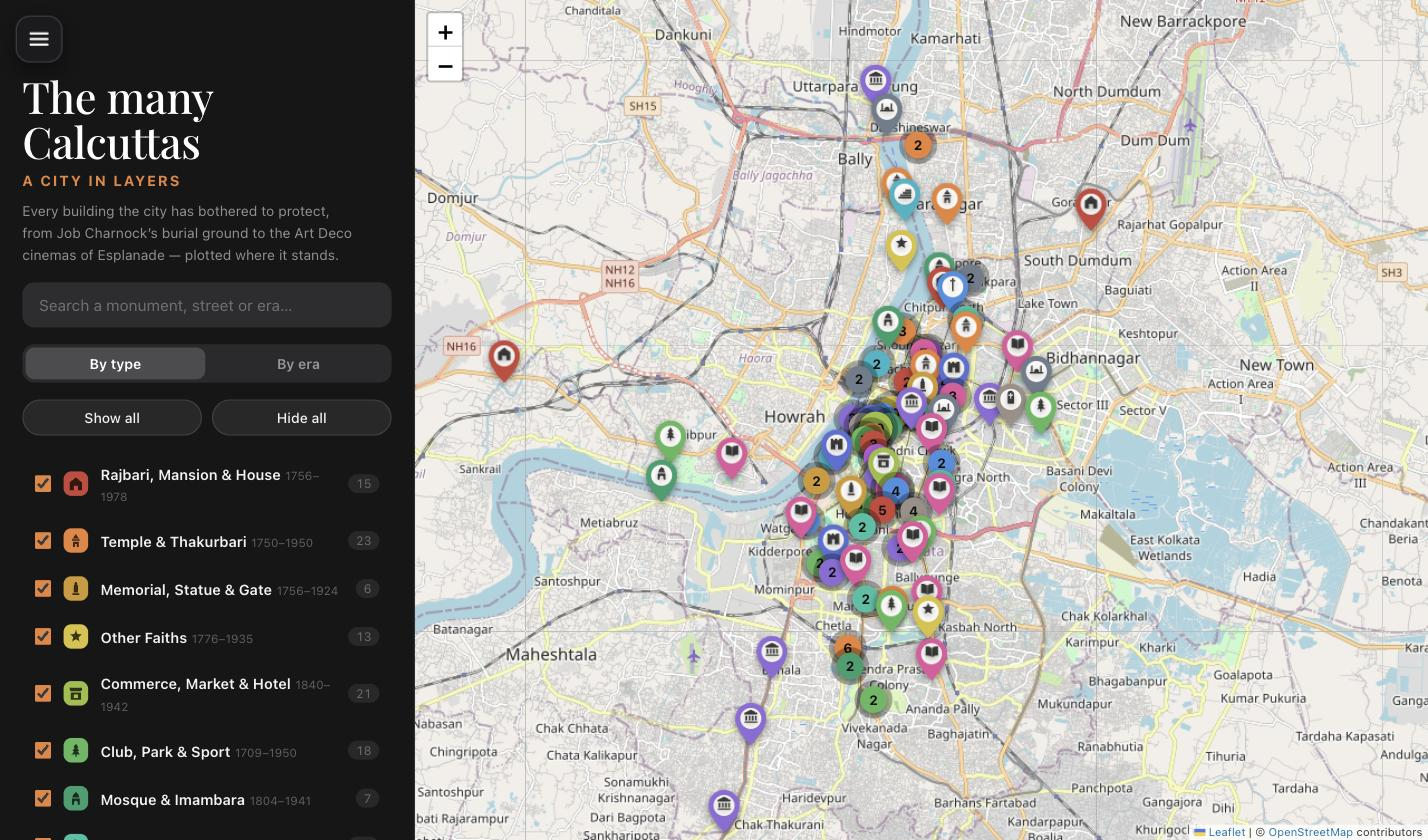
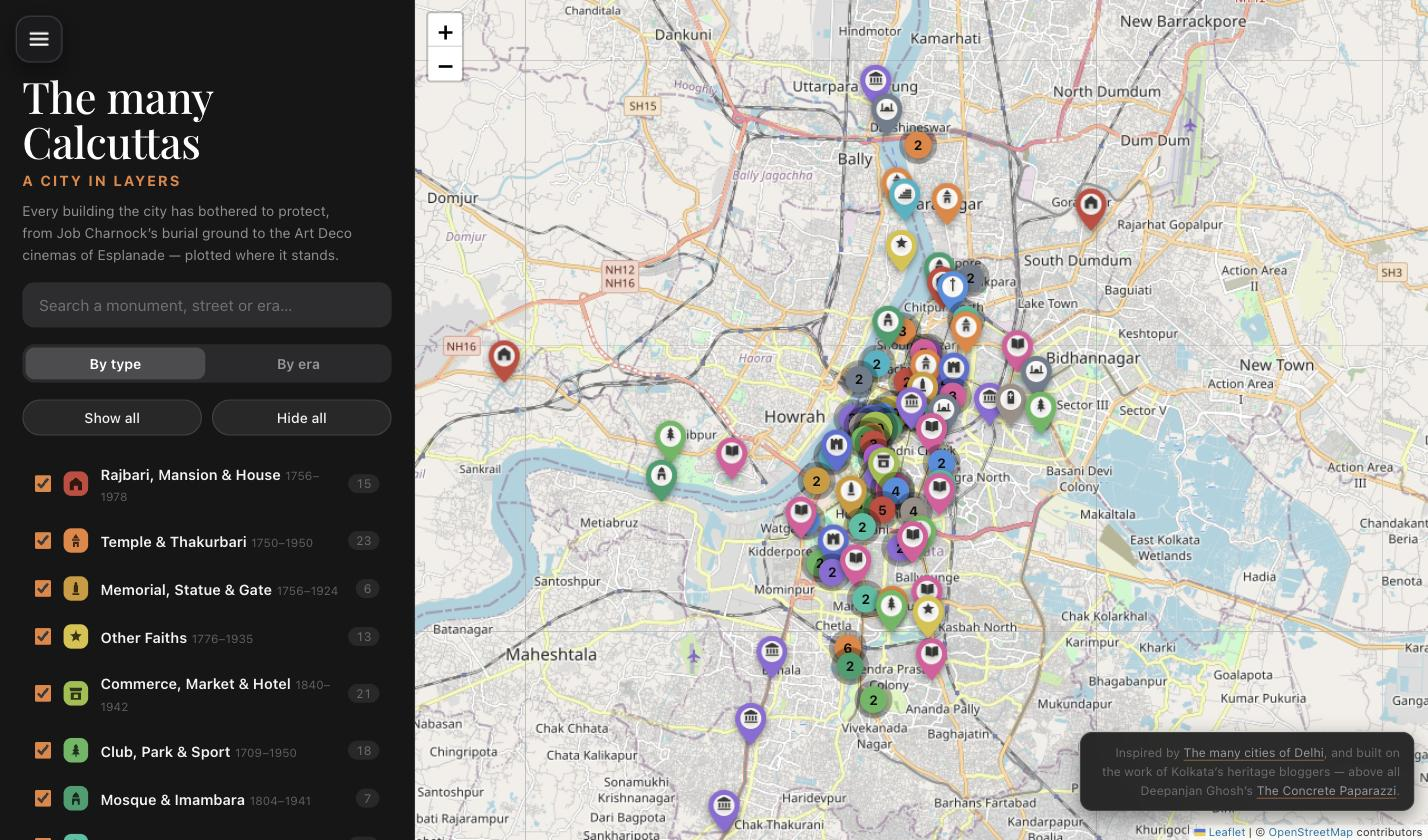
docs: credit the Delhi map and the heritage bloggers

Changed region(s): [[0.7395, 0.8667, 1.0, 0.9905]]

diff --git a/styles.css b/styles.css
@@ -256,6 +256,33 @@ body {
   box-shadow: 0 2px 6px rgba(0, 0, 0, 0.4);
 }
 
+/* ────────────────────────── credit ─────────────────────── */
+
+#credit {
+  position: absolute;
+  right: 12px;
+  bottom: 26px;           /* clear of the Leaflet attribution bar */
+  z-index: 1200;          /* sits under the info card */
+  max-width: 300px;
+  padding: 9px 12px;
+  border-radius: 11px;
+  background: rgba(22, 22, 24, 0.9);
+  backdrop-filter: blur(18px);
+  -webkit-backdrop-filter: blur(18px);
+  border: 1px solid var(--hairline);
+  box-shadow: 0 6px 18px rgba(0, 0, 0, 0.4);
+  font-size: 11px;
+  line-height: 1.55;
+  color: var(--text-faint);
+  text-align: right;
+}
+/* the info card overlaps this corner; get out of its way */
+body.card-open #credit { opacity: 0; pointer-events: none; }
+#credit { transition: opacity 0.25s var(--ease); }
+
+#credit a { color: var(--text-dim); text-decoration: none; border-bottom: 1px solid rgba(232, 131, 58, 0.5); }
+#credit a:hover { color: var(--accent); border-bottom-color: var(--accent); }
+
 /* ─────────────────────── info card ─────────────────────── */
 
 #info-card {
@@ -410,6 +437,13 @@ body {
 
   .card-hero { height: 158px; }
   .masthead h1 { font-size: 34px; }
+
+  #credit {
+    left: 12px;
+    max-width: none;
+    font-size: 10px;
+    padding: 7px 10px;
+  }
 }
 
 @media (prefers-reduced-motion: reduce) {

diff --git a/index.html b/index.html
@@ -85,6 +85,12 @@
 
   <div id="map"></div>
 
+  <aside id="credit">
+    Inspired by <a href="https://kaustubh-misra.github.io/delhi-monuments/" target="_blank" rel="noopener">The many cities of Delhi</a>,
+    and built on the work of Kolkata&rsquo;s heritage bloggers &mdash; above all
+    Deepanjan Ghosh&rsquo;s <a href="https://double-dolphin.blogspot.com/" target="_blank" rel="noopener">The Concrete Paparazzi</a>.
+  </aside>
+
   <article id="info-card" aria-live="polite">
     <button class="close-card-btn" aria-label="Close">&times;</button>
     <div class="card-hero" id="card-hero">

diff --git a/app.js b/app.js
@@ -283,6 +283,7 @@ function openCard(monument) {
 
   card.scrollTop = 0;
   card.classList.add('active');
+  document.body.classList.add('card-open');
   if (window.innerWidth <= 860) document.getElementById('sidebar').classList.add('collapsed');
 
   history.replaceState(null, '', `#${monument.id}`);
@@ -350,6 +351,7 @@ function loadHero(monument) {
 
 function closeCard() {
   card.classList.remove('active');
+  document.body.classList.remove('card-open');
   state.selected = null;
   highlightPin(null);
   history.replaceState(null, '', window.location.pathname + window.location.search);

diff --git a/README.md b/README.md
@@ -5,7 +5,10 @@ plotted where it stands and coloured by the era that built it.
 
 ![The map](preview.jpg)
 
-Inspired by [delhi-monuments](https://github.com/kaustubh-misra/delhi-monuments).
+Inspired by [The many cities of Delhi](https://kaustubh-misra.github.io/delhi-monuments/)
+([source](https://github.com/kaustubh-misra/delhi-monuments)), and built on the
+work of Kolkata's heritage bloggers — above all Deepanjan Ghosh's
+[The Concrete Paparazzi](https://double-dolphin.blogspot.com/).
 Delhi's story is told through eighteen dynasties; Kolkata is a much younger city,
 so this one is told through six phases of a single city's life — from Job
 Charnock's burial ground to the Art Deco cinemas of Esplanade.
